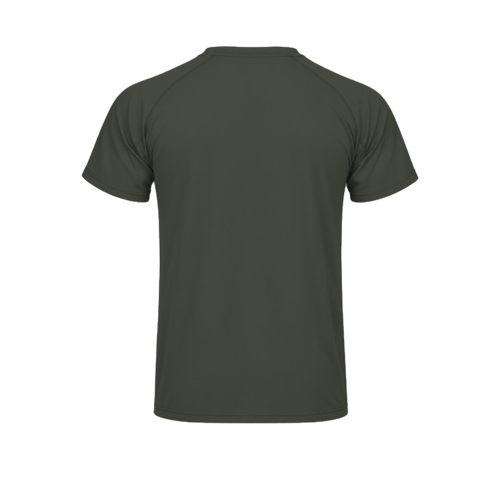
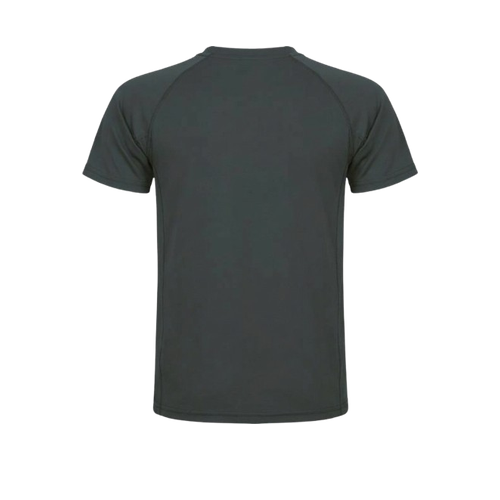
feat: update color slug handling for product consistency and add new color slug function

diff --git a/assets/conf-main-inline.js b/assets/conf-main-inline.js
@@ -3768,7 +3768,7 @@
           /* Même résolution que le canvas : slug EN, puis FR, puis générique.
              On passe par les candidats plutôt que de deviner un nom de fichier,
              pour hériter des replis quand une teinte n'a pas d'image dédiée. */
-          const slug = COLOR_SLUGS[couleur] || '';
+          const slug = window.slugCouleurProduit(currentProductKey, couleur) || COLOR_SLUGS[couleur] || '';
           const cand = colorImageCandidates(PRODUCT_SLUGS[currentProductKey], slug, vue);
           const base = cand[0] || fallbackSrc;
 
@@ -3912,7 +3912,7 @@
          */
         const vuesAvecCouleur = function (vues, couleur) {
           if (!vues || !couleur) return vues;
-          const slugC = COLOR_SLUGS[couleur] || '';
+          const slugC = window.slugCouleurProduit(currentProductKey, couleur) || COLOR_SLUGS[couleur] || '';
           const prefixC = PRODUCT_SLUGS[currentProductKey];
           if (!slugC || !prefixC) return vues;
 
@@ -8992,7 +8992,9 @@
       el.classList.add('on');
       currentColor = hex;
       currentColorName = name;
-      currentColorSlug = COLOR_SLUGS[name] || 'noir';
+      /* Slug lu dans la palette DU PRODUIT : un même nom peut désigner deux
+         teintes (voir slugCouleurProduit, conf-palettes.js). */
+      currentColorSlug = window.slugCouleurProduit(currentProductKey, name) || COLOR_SLUGS[name] || 'noir';
       applyColor(hex);
       /* #rc-color vit dans .recap, dont l'innerHTML est INTÉGRALEMENT remplacé
          pour les coins/drapeaux/patchs (voir DynamicLayoutManager). Sans cette

diff --git a/assets/conf-palettes.js b/assets/conf-palettes.js
@@ -308,4 +308,18 @@
     pal.forEach(function (c) { if (!slugs[c.nom]) slugs[c.nom] = c.slug; });
   });
   window.COLOR_SLUGS_PALETTES = slugs;
+
+  /* SLUG D'UNE COULEUR POUR UN PRODUIT DONNÉ.
+
+     Depuis le 23/11/2026, un même nom n'a plus forcément le même slug :
+     « Vert militaire » vaut 'vert-militaire' sur le t-shirt coton, mais
+     'kaki-dore' sur le polyester (ex-« Kaki doré » renommée). La table
+     globale ci-dessus, indexée par le seul nom, garde le premier rencontré
+     (le coton) : le polyester affichait alors l'image du Plomb foncé.
+     On interroge donc d'abord la palette du produit, la table ensuite. */
+  window.slugCouleurProduit = function (produit, nom) {
+    var c = window.couleurDansPalette(produit, nom);
+    if (c && c.slug) return c.slug;
+    return (window.COLOR_SLUGS && window.COLOR_SLUGS[nom]) || slugs[nom] || '';
+  };
 })();

diff --git a/assets/conf-group-verify.js b/assets/conf-group-verify.js
@@ -96,7 +96,8 @@
   function fondPourCouleur(nomCouleur, vueNom) {
     if (!nomCouleur) return '';
     var key = window.currentProductKey || window.currentProductType || 'sweatshirt';
-    var slug = (window.COLOR_SLUGS_MAP && window.COLOR_SLUGS_MAP[nomCouleur]) ||
+    var slug = (typeof window.slugCouleurProduit === 'function' && window.slugCouleurProduit(key, nomCouleur)) ||
+               (window.COLOR_SLUGS_MAP && window.COLOR_SLUGS_MAP[nomCouleur]) ||
                (window.COLOR_SLUGS && window.COLOR_SLUGS[nomCouleur]);
     var prefix = window.PRODUCT_SLUGS && window.PRODUCT_SLUGS[key];
     if (!prefix || !slug || typeof window.colorImageCandidates !== 'function') return '';

diff --git a/assets/conf-group-preview.js b/assets/conf-group-preview.js
@@ -61,7 +61,8 @@
   
     var key  = grpSafe(function () { return window.currentProductKey; }, '') ||
                grpSafe(function () { return window.currentProductType; }, 'sweatshirt');
-    var slug = grpSafe(function () { return window.COLOR_SLUGS_MAP[colorName]; }, '') ||
+    var slug = grpSafe(function () { return window.slugCouleurProduit(key, colorName); }, '') ||
+               grpSafe(function () { return window.COLOR_SLUGS_MAP[colorName]; }, '') ||
                grpSafe(function () { return window.COLOR_SLUGS[colorName]; }, '');
     var prefix = grpSafe(function () { return window.PRODUCT_SLUGS[key]; }, '');
   
